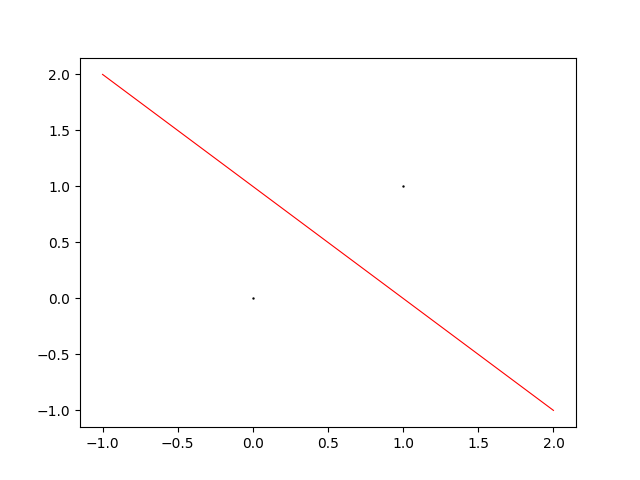
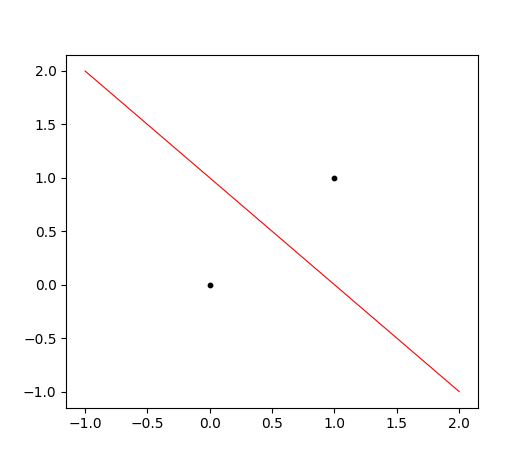
[ankor] fixes

Changed region(s): [[0.0603, 0.1223, 0.904, 0.9476], [0.6026, 0.3668, 0.6328, 0.3974], [0.3917, 0.6114, 0.4218, 0.6419]]

diff --git a/online/ankor/problem_statement/problem.sv.tex b/online/ankor/problem_statement/problem.sv.tex
@@ -1,16 +1,18 @@
 \problemname{Dela ankor lika}
 \noindent
 
-Du är en högre makt som har fått ett viktigt uppdrag. 
-Det finns $2N$ stycken kodsportsankor på ett plan, och två barn som bråkar om hur många ankor var och en ska få.
+Som en nådig härskare över POland vill du att alla dina invånare ska trivas. Det är därför djupt bekymrande
+att två barn bråkar. Mer exakt bråkar de över $2N$ kodsportsankor som ligger
+utplacerade på ett plan, och barnen grälar över hur många ankor var och en ska få.
 
 För att lösa konflikten ska du skapa en spricka i marken - en rak linje som delar planet i två delar.
-Sprickan måste placeras så att exakt $N$ ankor hamnar på vardera sida.
-Alla ankor har distinkta positioner med positiva heltalskoordinater.
+Sprickan måste placeras så att exakt $N$ ankor hamnar på vardera sida, vilket då leder till att vardera barn
+får lika många ankor. Varje anka är utplacerad på en heltalskoordinat.
 
-För enkelhetens skull antar vi att sprickan kommer vara en rät linje på formen $y=kx+m$. 
-Din uppgift är att hitta en spricka som delar ankorna i två lika stora delar om det går.
-Skriv annars ut ”impossible”. Notera att $k$ och $m$ får vara rella tal.
+Eftersom du föredrar enkelhet och elegans kommer din spricka att vara en rät linje på formen $y=kx+m$,
+där $k$ och $m$ får vara \textbf{decimaltal}. \\
+Om det finns en linje som delar ankorna lika, skriv ut denna.\\ 
+Skriv annars ut ''impossible''.
 
 \section*{Indata}
 Den första raden innehåller ett heltal $N$ ($1 \leq N \leq 10^5$), där $2N$ är det totala antalet ankor.
@@ -20,10 +22,11 @@ Varje rad innehåller två heltal $x_i, y_i$ ($0 \leq x_i, y_i \leq 10^6$), koor
 Alla ankor har olika positioner.
 
 \section*{Utdata}
-Om det är möjligt att dela ankorna lika, skriv ut två reella tal $k$ och $b$ ($-5*10^9 \leq k, b \leq 5*10^9$) som beskriver linjen $y = kx + b$.
-Svaret accepteras om det finns en linje med dina värden som delar ankorna korrekt.
+Om det är möjligt att dela ankorna lika, skriv ut två reella tal $k$ och $m$ ($-5*10^9 \leq k, m \leq 5*10^9$) som beskriver linjen $y = kx + m$. \\
+Svaret accepteras om linjen delar ankorna i två lika stora grupper. Om det finns flera lösningar kan du skriva ut vilken som helst.\\
+Om en anka befinner sig exakt på linjen kommer det att räknas som att den är under linjen. 
 
-Om det är omöjligt att dela ankorna lika, skriv ut ”impossible”.
+Om det är omöjligt att dela ankorna lika, skriv ut ''impossible''.
 
 \section*{Poängsättning}
 Din lösning kommer att testas på en mängd testfallsgrupper.
@@ -42,13 +45,14 @@ För att få poäng för en grupp så måste du klara alla testfall i gruppen.
 \end{tabular}
 
 \section*{Förklaring av exempelfall}
-Notera att det finns fler giltiga lösningar i alla dessa fallen.
+I varje av följande bilder har alla ankor ritats ut med svarta prickar. Sprickan som används i exempellösningen ritas ut som en röd linje.
+Notera att det finns flera giltiga lösningar i alla dessa fallen.
 
 \begin{centering}
   \begin{figure}[h]
       \centering
       \includegraphics[width=0.3\textwidth]{sample1.png}
-      \caption{Bilden föreställer första exempelfallet. Vara anka representeras av en prick, och sprickan är den röda linjen.}
+      \caption{Bilden föreställer det första exempelfallet.}
       \label{fig:enter-label}
   \end{figure}
 \end{centering}
@@ -57,8 +61,8 @@ Notera att det finns fler giltiga lösningar i alla dessa fallen.
   \begin{figure}[h]
       \centering
       \includegraphics[width=0.3\textwidth]{sample2.png}
-      \caption{Bilden föreställer andra exempelfallet. Vara anka representeras av en prick, och sprickan är den röda linjen. Det är svårt att se, men den andra punkten
-      är precis ovanför linjen.}
+      \caption{Bilden föreställer det andra exempelfallet. Det är svårt att se, men den andra punkten
+      är precis under linjen.}
       \label{fig:enter-label}
   \end{figure}
 \end{centering}
@@ -67,7 +71,7 @@ Notera att det finns fler giltiga lösningar i alla dessa fallen.
   \begin{figure}[h]
       \centering
       \includegraphics[width=0.3\textwidth]{sample3.png}
-      \caption{Bilden föreställer tredje exempelfallet. Vara anka representeras av en prick, och sprickan är den röda linjen.}
+      \caption{Bilden föreställer det tredje exempelfallet.}
       \label{fig:enter-label}
   \end{figure}
 \end{centering}

diff --git a/online/ankor/output_validators/validator/validate.cc b/online/ankor/output_validators/validator/validate.cc
@@ -49,6 +49,5 @@ int main(int argc, char **argv) {
 	check(judge_ans, judge_error);
 	check(author_out, wrong_answer);
 
-	cout << "W";
     accept();
 }
